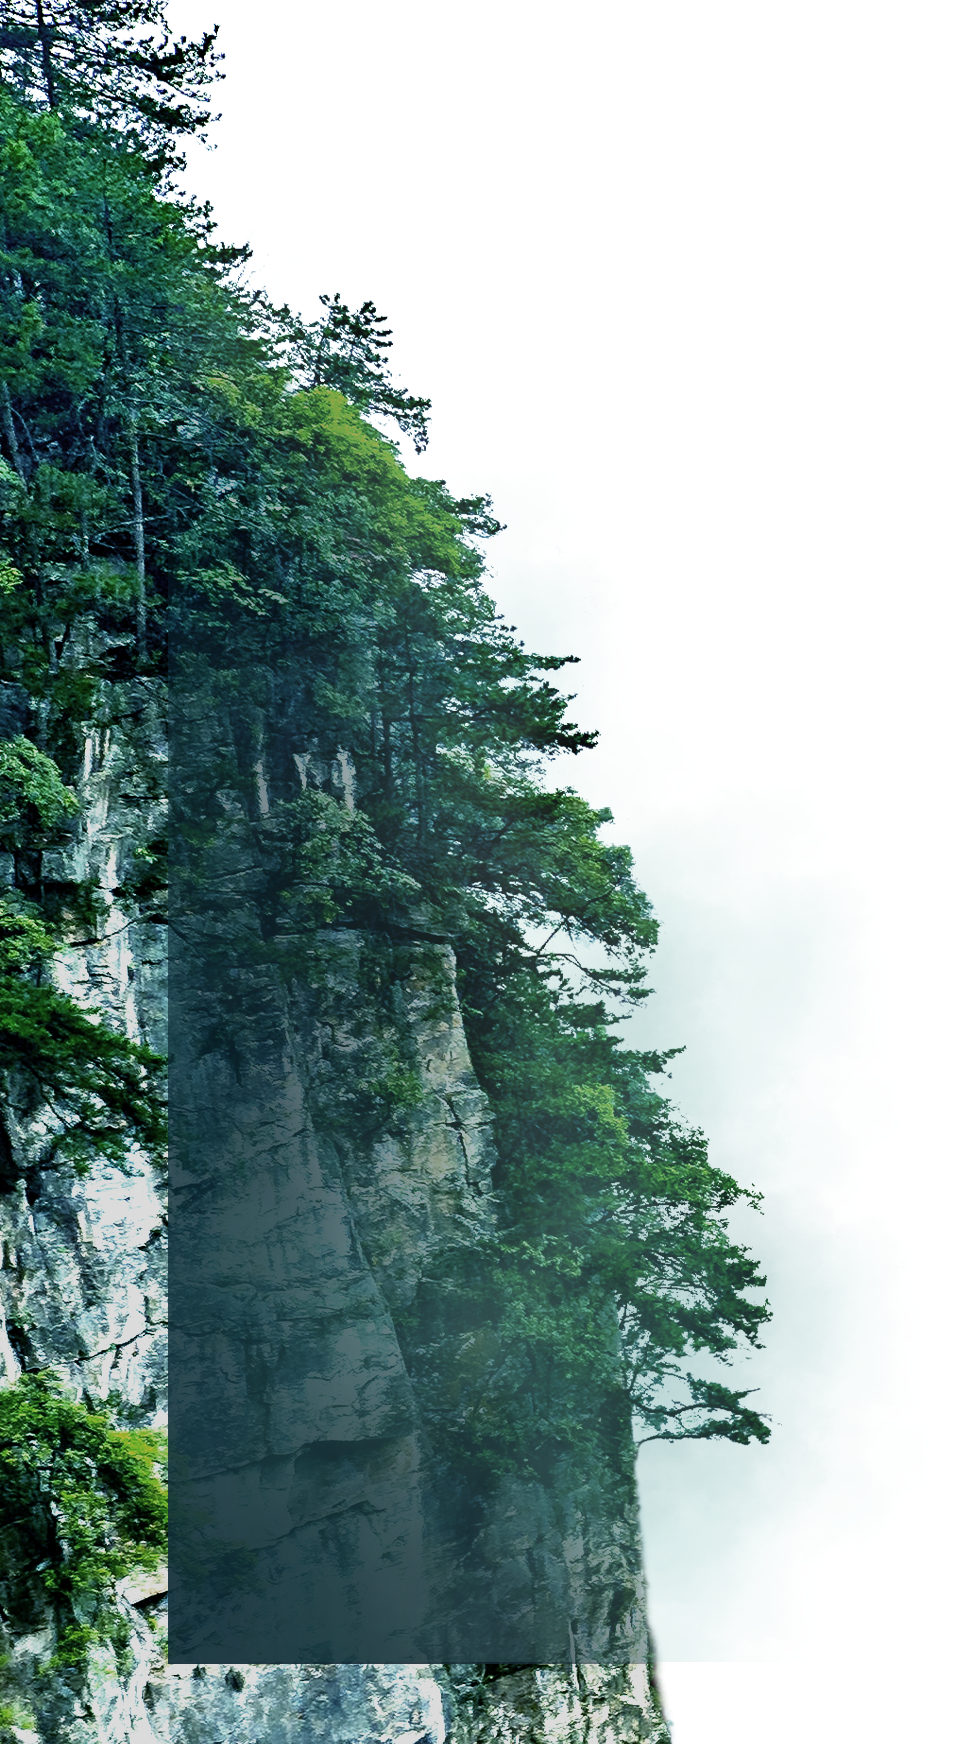
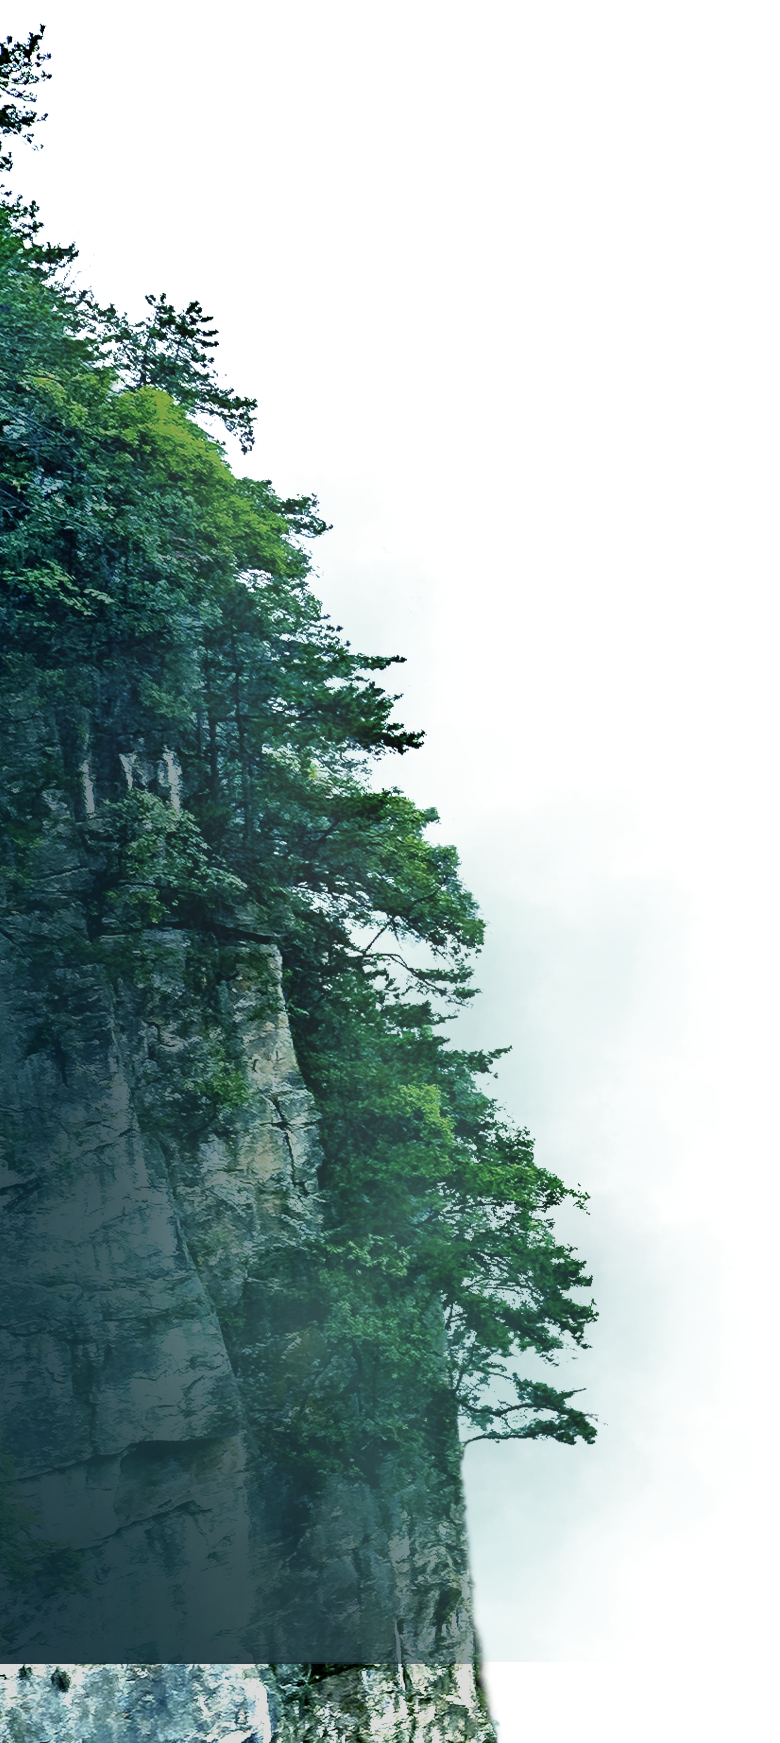
Добавление начальной страницы в стиле parallax. Реализация переходов по осям X, Y, Z (НЕ ДО КОНЦА)

diff --git a/css/style.css b/css/style.css
@@ -13,6 +13,8 @@ body {
     color: #fff;
     font-weight: 400;
     font-size: 18px;
+    overflow-x: hidden;
+
 }
 a {
     text-decoration: none;
@@ -81,6 +83,206 @@ header{
 
 /* COVER START  */
 .cover {
+    position: relative;
     background-color: #353;
     height: 100vh;
+    width: 100%;
+    overflow: hidden;
+}
+.parallax {
+    pointer-events: none;
+    transition: 0.45s cubic-bezier(0.2,0.49,0.32,0.99);
+}
+.bg-img {
+    position: absolute;
+    width: 2800px;
+    top: calc(50% - 390px);
+    left: calc(50% + 10px);
+    transform: translate(-50%, -50%);
+    z-index: 1;
+}
+.fog-7 {
+    position: absolute;
+    z-index: 2;
+    width: 1900px;
+    top: calc(50% - 100px);
+    left: calc(50% + 300px);
+    transform: translate(-50%, -50%);
+}
+.mountain_10 {
+    position: absolute;
+    z-index: 3;
+    width: 892px;
+    top: calc(50% + 69px);
+    left: calc(50% + 230px);
+    transform: translate(-50%, -50%);
+}
+.fog-6 {
+    position: absolute;
+    z-index: 4;
+    width: 1610px;
+    top: calc(50% + 85px);
+    left: calc(50% + 10px);
+    transform: translate(-50%, -50%);
+}
+.mountain_9 {
+    position: absolute;
+    z-index: 5;
+    width: 470px;
+    top: calc(50% + 113px);
+    left: calc(50% - 457px);
+    transform: translate(-50%, -50%);
+}
+.mountain_8 {
+    position: absolute;
+    z-index: 6;
+    width: 810px;
+    top: calc(50% + 86px);
+    left: calc(50% - 202px);
+    transform: translate(-50%, -50%);
+}
+.fog-5 {
+    position: absolute;
+    z-index: 7;
+    width: 450px;
+    top: calc(50% + 160px);
+    left: calc(50% + 20px);
+    transform: translate(-50%, -50%);
+}
+.mountain_7 {
+    position: absolute;
+    z-index: 8;
+    width: 538px;
+    top: calc(50% + 123px);
+    left: calc(50% + 305px);
+    transform: translate(-50%, -50%);
+}
+.text{
+    position: absolute;
+    z-index: 13;
+    top: calc(50% - 130px);
+    left: 50%;
+    transform: translate(-50%, -50%);
+    text-align: center;
+    text-transform: uppercase;
+    color: #fff;
+    line-height: 108%;
+    font-size: 120px;
+    font-weight: 900;
+    letter-spacing: normal;
+}
+.text h2 {
+    font-size: 100px;
+    font-weight: 400;
+}
+.text h1 {
+    letter-spacing: 27px;
+}
+
+.mountain_6 {
+    position: absolute;
+    z-index: 10;
+    width: 408px;
+    top: calc(50% + 60px);
+    left: calc(50% + 590px);
+    transform: translate(-50%, -50%);
+}
+.fog-4 {
+    position: absolute;
+    z-index: 11;
+    top: calc(50% + 223px);
+    left: calc(50% - 60px);
+    transform: translate(-50%, -50%);
+}
+.mountain_5 {
+    position: absolute;
+    z-index: 12;
+    width: 625px;
+    top: calc(50% + 250px);
+    left: calc(50% + 130px);
+    transform: translate(-50%, -50%);
+}
+.fog-3 {
+    position: absolute;
+    z-index: 13;
+    width: 1600px;
+    top: calc(50% + 110px);
+    left: calc(50% - 15px);
+    transform: translate(-50%, -50%);
+}
+.mountain_4 {
+    position: absolute;
+    z-index: 14;
+    width: 780px;
+    top: calc(50% + 196px);
+    left: calc(50% + 381px);
+    transform: translate(-50%, -50%);
+}
+.mountain_3 {
+    position: absolute;
+    z-index: 25;
+    /* width: 780px; */
+    top: calc(50% + 196px);
+    left: calc(50% + 600px);
+    transform: translate(-50%, -50%);
+}
+
+
+
+
+
+
+.fog-2 {
+    position: absolute;
+    z-index: 16;
+    width: 1560px;
+    top: calc(50% + 147px);
+    left: calc(50% - 30px);
+    transform: translate(-50%, -50%);
+}
+.mountain_2 {
+    position: absolute;
+    z-index: 17;
+    width: 690px;
+    top: calc(50% + 154px);
+    left: calc(50% + 412px);
+    transform: translate(-50%, -50%);
+}
+.mountain_22 {
+    position: absolute;
+    z-index: 17;
+    width: 790px;
+    top: calc(50% + 274px);
+    left: calc(50% - 420px);
+    transform: translate(-50%, -50%);
+}
+.mountain_1 {
+    position: absolute;
+    z-index: 25;
+    /* width: 530px; */
+    top: calc(50% + 17px);
+    left: calc(50% - 601px);
+    transform: translate(-50%, -50%);
+}
+.sun-rays{
+    position: absolute;
+    z-index: 19;
+    top: 0;
+    right: 0;
+    width: 595px;
+}
+.black-shadow {
+    position: absolute;
+    z-index: 20;
+    bottom: 0;
+    right: 0;
+    width: 100%;
+}
+.fog-1 {
+    position: absolute;
+    z-index: 21;
+    width: 1600px;
+    top: calc(100% - 355px);
+    left: 50%;
+    transform: translate(-50%, -50%);
 }

diff --git a/index.html b/index.html
@@ -38,15 +38,15 @@
         </div>
     </header>
     <div class="cover">
-        <img src="img/background.png" class="parallax bg-img">
-        <img src="img/fog_7.png" class="parallax fog-7">
-        <img src="img/mountain_10.png" class="parallax mountain_10">
-        <img src="img/fog_6.png" class="parallax fog-6">
-        <img src="img/mountain_9.png" class="parallax mountain_9">
-        <img src="img/mountain_8.png" class="parallax mountain_8">
-        <img src="img/fog_5.png" class="parallax fog-5">
-        <img src="img/mountain_7.png" class="parallax mountain_7">
-        <div class="text parallax">
+        <img src="img/background.png" data-speedx="0.3" data-speedy="0.05" class="parallax bg-img">
+        <img src="img/fog_7.png" data-speedx="0.27" data-speedy="0.32" class="parallax fog-7">
+        <img src="img/mountain_10.png" data-speedx="0.195" data-speedy="0.305" class="parallax mountain_10">
+        <img src="img/fog_6.png" data-speedx="0.25" data-speedy="0.28" class="parallax fog-6">
+        <img src="img/mountain_9.png" data-speedx="0.125" data-speedy="0.155" class="parallax mountain_9">
+        <img src="img/mountain_8.png" data-speedx="0.1" data-speedy="0.1" class="parallax mountain_8">
+        <img src="img/fog_5.png" data-speedx="0.16" data-speedy="0.11" class="parallax fog-5">
+        <img src="img/mountain_7.png" data-speedx="0.1" data-speedy="0.105" class="parallax mountain_7">
+        <div class="text parallax" data-speedx="0.07" data-speedy="0.07">
             <h2>
                 explore
             </h2>
@@ -54,8 +54,19 @@
                 indonesia
             </h1>
         </div>
-
-
+        <img src="img/mountain_6.png" data-speedx="0.065" data-speedy="0.38" class="parallax mountain_6">
+        <img src="img/fog_4.png" data-speedx="0.135" data-speedy="0.38" class="parallax fog-4">
+        <img src="img/mountain_5.png" data-speedx="0.08" data-speedy="0.38" class="parallax mountain_5">
+        <img src="img/fog_3.png" data-speedx="0.011" data-speedy="0.38" class="parallax fog-3">
+        <img src="img/mountain_4.png" data-speedx="0.059" data-speedy="0.38" class="parallax mountain_4">
+        <img src="img/mountain_3.png" data-speedx="0.04" data-speedy="0.38" class="parallax mountain_3">
+        <img src="img/fog_2.png" data-speedx="0.015" data-speedy="0.38" class="parallax fog-2">
+        <img src="img/mountain_2.png" data-speedx="0.0235" data-speedy="0.38" class="parallax mountain_2">
+        <img src="img/mountain_2.png" data-speedx="0.0275" data-speedy="0.38" class="parallax mountain_22">
+        <img src="img/mountain_1.png" data-speedx="0.027" data-speedy="0.38" class="parallax mountain_1">
+        <img src="img/sun_rays.png" class="sun-rays">
+        <img src="img/black_shadow.png" class="black-shadow">
+        <img src="img/fog_1.png" data-speedx="0.12" data-speedy="0.38" class="parallax fog-1">
     </div>
 </body>
 </html>

diff --git a/js/script.js b/js/script.js
@@ -1,0 +1,24 @@
+const parallax_el = document.querySelectorAll(".parallax");
+
+let xValue, yValue = 0;
+
+window.addEventListener("mousemove", (e) => {
+    xValue = e.clientX - window.innerWidth / 2;
+    yValue = e.clientY - window.innerHeight / 2;
+
+
+
+    parallax_el.forEach((el) => {
+        let speedx = el.dataset.speedx;
+        let speedy = el.dataset.speedy;
+
+
+
+        let isInLeft = parseFloat(getComputedStyle(el).left) < window.innerWidth / 2 ? 1 : -1;
+        let zValue = (e.clientX - parseFloat(getComputedStyle(el).left)) * isInLeft * 0.1;
+
+        el.style.transform = `translateX(calc(-50% + ${-xValue * speedx }px)) translateY(calc(-50% + ${yValue * speedy}px)) perspective(2300px) translateZ(${zValue}px)`;
+    });
+
+});
+// 37-40
